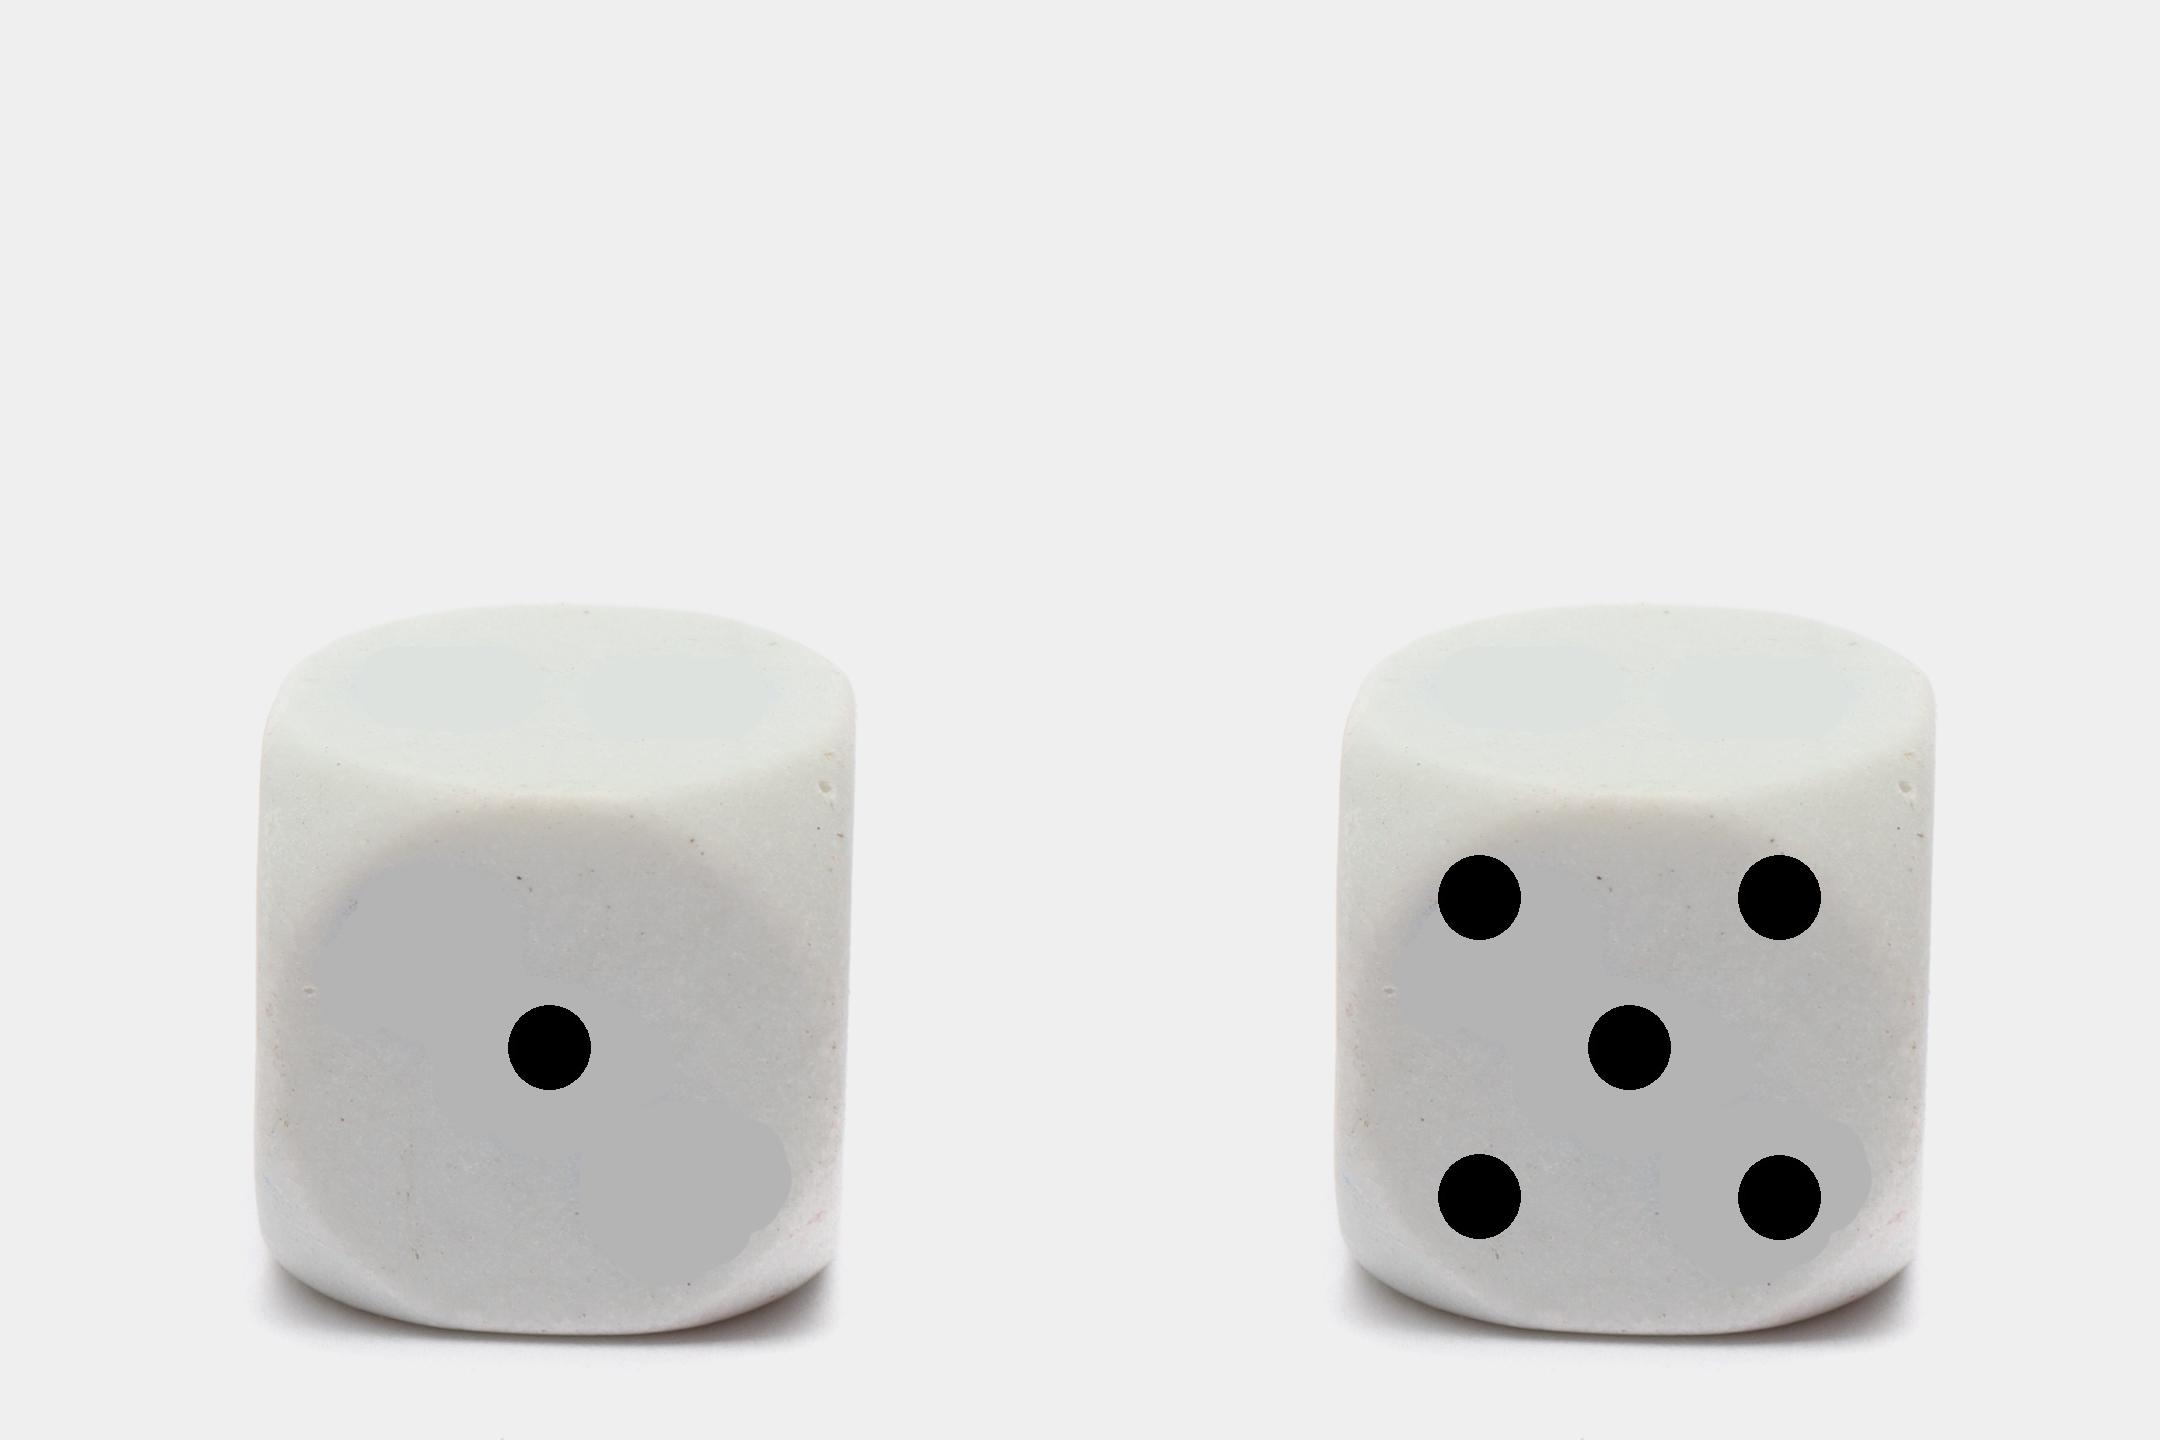
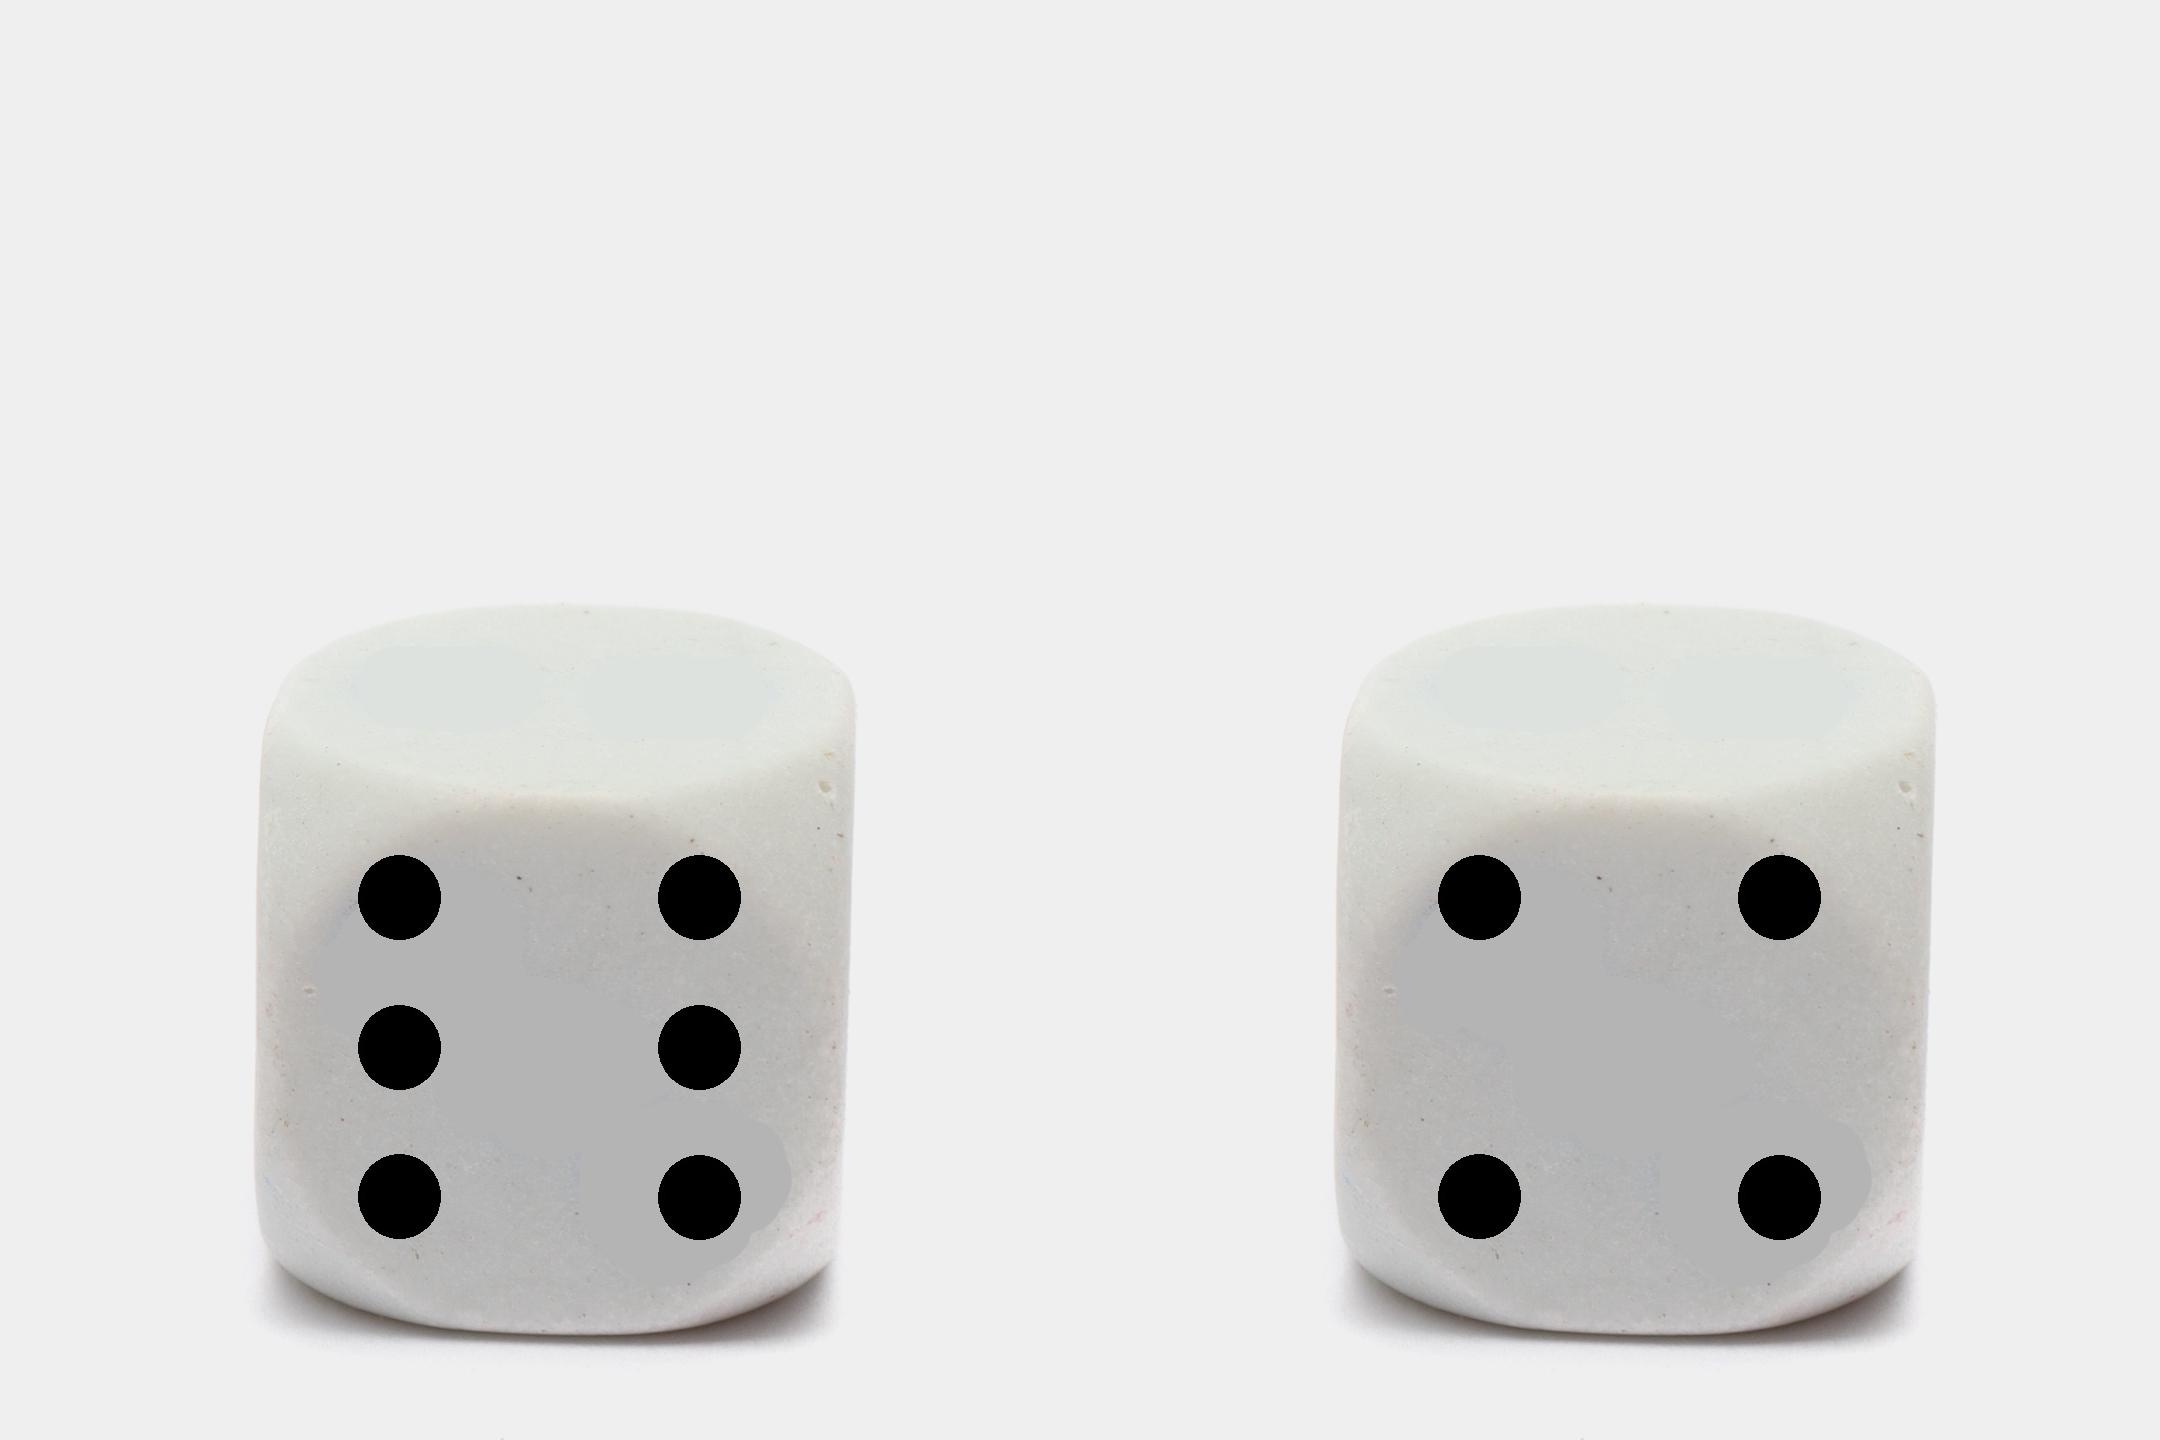
Fix dices update

diff --git a/roll_dice_system.py b/roll_dice_system.py
@@ -17,20 +17,20 @@ def gen_dice(num, image_obj, savename):
         image_obj.save(savename)
         return image_obj
     if num == 2:
-        Image.open("DICE_EMPTY.jpg")
+        image_obj = Image.open("DICE_EMPTY.jpg")
         image_obj.paste(point, (650, 1150), mask=point)
         image_obj.paste(point, (350, 850), mask=point)
         image_obj.save(savename)
         return image_obj
     if num == 3:
-        Image.open("DICE_EMPTY.jpg")
+        image_obj = Image.open("DICE_EMPTY.jpg")
         image_obj.paste(point, (650, 1150), mask=point)
         image_obj.paste(point, (350, 850), mask=point)
         image_obj.paste(point, (500, 1000), mask=point)
         image_obj.save(savename)
         return image_obj
     if num == 4:
-        Image.open("DICE_EMPTY.jpg")
+        image_obj = Image.open("DICE_EMPTY.jpg")
         image_obj.paste(point, (650, 1150), mask=point)
         image_obj.paste(point, (350, 850), mask=point)
         image_obj.paste(point, (350, 1149), mask=point)
@@ -38,7 +38,7 @@ def gen_dice(num, image_obj, savename):
         image_obj.save(savename)
         return image_obj
     if num == 5:
-        Image.open("DICE_EMPTY.jpg")
+        image_obj = Image.open("DICE_EMPTY.jpg")
         image_obj.paste(point, (650, 1150), mask=point)
         image_obj.paste(point, (350, 850), mask=point)
         image_obj.paste(point, (350, 1149), mask=point)
@@ -47,7 +47,7 @@ def gen_dice(num, image_obj, savename):
         image_obj.save(savename)
         return image_obj
     if num == 6:
-        Image.open("DICE_EMPTY.jpg")
+        image_obj = Image.open("DICE_EMPTY.jpg")
         image_obj.paste(point, (650, 1150), mask=point)
         image_obj.paste(point, (350, 850), mask=point)
         image_obj.paste(point, (350, 1000), mask=point)
